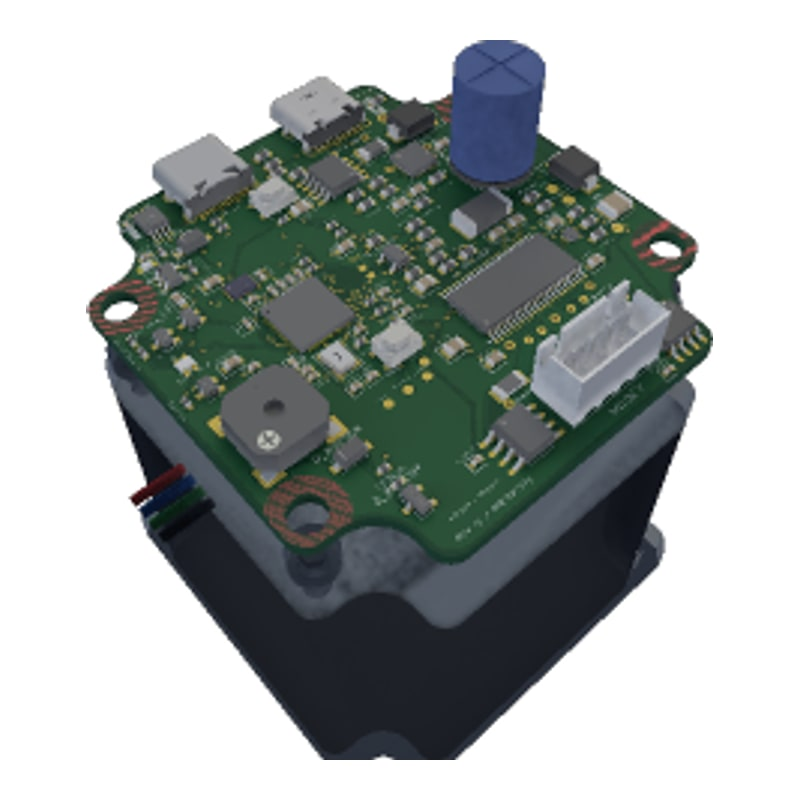
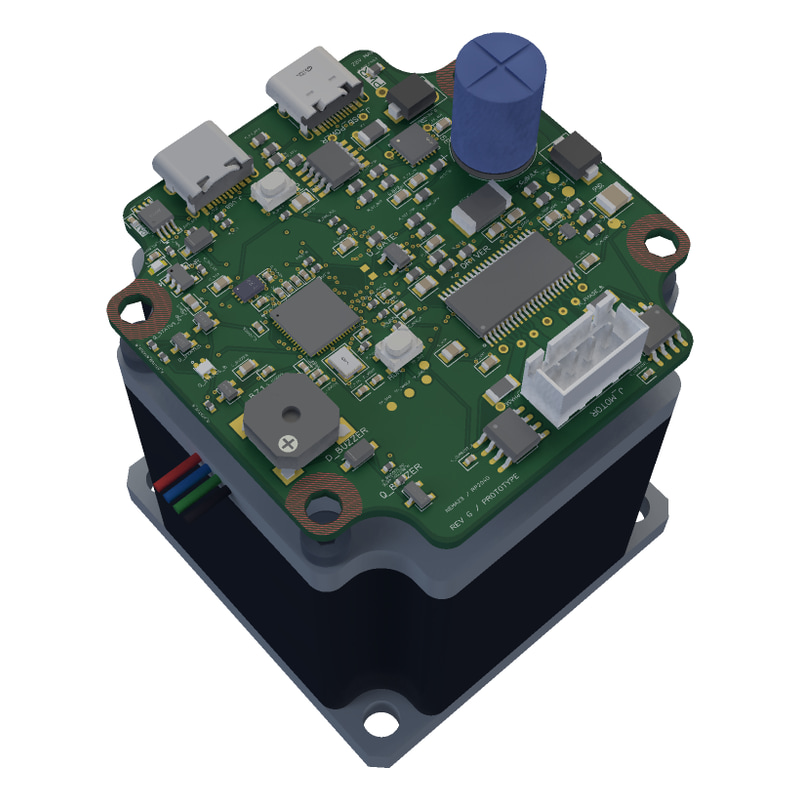
docs: add real board views and supersampled 3D renders

Changed region(s): [[0.0938, 0.0312, 0.9062, 0.9688]]

diff --git a/docs/showcase/README.md b/docs/showcase/README.md
@@ -1,0 +1,24 @@
+# README showcase assets
+
+These images come from the linked community designs. The first gallery image is a photograph; the other two are renders of the actual Circuit JSON, not enlarged registry thumbnails.
+
+| Asset | Source |
+| --- | --- |
+| `rp2040-motor-controller.jpg` | [Original shop photo](https://shop.tscircuit.com/cdn/shop/files/CleanShot_2026-09-24_at_15.36.10_2x_184b343f-0b34-4785-ace1-3eb059e26147.png?v=1790289389), requested with `width=800&height=800&crop=center` and compressed as JPEG. |
+| `rp2040-motor-controller-pcb.png` | `imrishabh18/rp2040-motor-controller`, release `28c2eb03-3ec2-4031-98b5-90c250084efe`, `dist/index/circuit.json`. |
+| `rp2040-motor-controller-schematic.png` and `.svg` | Same release, `dist/schematic/controller_programming.svg`. |
+| `nema-23-stepper-controller.jpg` | `imrishabh18/nema-23-stepper-controller`, release `d5482839-bb97-4be0-a31b-bba015f4e33f`, `dist/index/circuit.json`. |
+| `rp2040-bldc-motor-controller.jpg` | `MustafaMulla29/rp2040-bldc-motor-controller-new`, release `899c4704-4a6b-4518-a941-a574537055a5`, `dist/system/circuit.json`. The external `connected-system.glb` assembly is excluded to show the complete PCB without cables obscuring it. |
+
+## Rendering
+
+- 3D geometry: `circuit-json-to-gltf@0.0.155`, with `boardTextureResolution: 4096`.
+- 3D rasterization: `poppygl@0.0.37`, `realistic: true`, white background, grid disabled, `width: 1200`, `height: 1200`, `supersampling: 2`. Each master is rendered at 2400 × 2400 internally, then resolved to 1200 × 1200 before trimming white margins and fitting within an 800 × 800 gallery image with 32 px padding. JPEG quality 94, 4:4:4 chroma, MozJPEG.
+- NEMA 23 camera: fit the complete exported scene bounds, direction `[0.7, 2.0, -0.8]`, vertical FOV 40°. All PCB corners and the complete motor fit inside the frame.
+- BLDC camera: board camera direction `[-0.7, 1.4, -0.8]`, FOV 40°, camera distance multiplied by 1.25 and target raised to glTF Y=5. All PCB corners and the tall capacitor fit inside the frame.
+- PCB: `circuit-to-svg@0.0.453`, top copper only, no silkscreen, ratsnest, courtyard, solder paste, fabrication notes, or group overlays. Dark background and matching drill-hole color. The underlying circuit geometry is unchanged. Render the SVG at 3200 px and downsample to a 1600 px PNG.
+- Schematic: preserve the source sheet's symbols, wiring, labels, colors, and notes; crop the unused page border/margins using `viewBox="300 210 1040 680"`. Keep the vector SVG for zooming; rasterize at 3200 px and downsample to a 1600 px PNG for the README.
+
+## Visual checks
+
+Compared the original thumbnails with fresh renders and inspected both full-resolution and 280 px gallery previews. Checked complete-board framing, motor clearance inside the image, smooth diagonal edges, connector detail, and silkscreen sharpness. Reviewed the schematic for clipped labels/symbols and readable section headings; reviewed the PCB for uncluttered routing and intact board edges. These are presentation checks, not electrical validation of the community designs.

diff --git a/README.md b/README.md
@@ -63,7 +63,7 @@ From code to hardware: explore the source, schematic, PCB layout, and 3D view of
     </td>
     <td align="center" width="33%">
       <a href="https://tscircuit.com/imrishabh18/nema-23-stepper-controller#3d">
-        <img src="./docs/showcase/nema-23-stepper-controller.jpg" width="280" alt="3D render of the NEMA 23 stepper controller PCB mounted on a motor" />
+        <img src="./docs/showcase/nema-23-stepper-controller.jpg" width="280" alt="Supersampled 3D render of the NEMA 23 stepper controller PCB and complete motor assembly" />
       </a>
       <br />
       <strong><a href="https://tscircuit.com/imrishabh18/nema-23-stepper-controller#files">NEMA 23 stepper controller</a></strong>
@@ -74,7 +74,7 @@ From code to hardware: explore the source, schematic, PCB layout, and 3D view of
     </td>
     <td align="center" width="33%">
       <a href="https://tscircuit.com/MustafaMulla29/rp2040-bldc-motor-controller-new#3d">
-        <img src="./docs/showcase/rp2040-bldc-motor-controller.jpg" width="280" alt="3D render of an RP2040 brushless motor controller with USB cables and motor connections" />
+        <img src="./docs/showcase/rp2040-bldc-motor-controller.jpg" width="280" alt="Supersampled 3D render of the RP2040 brushless motor controller PCB" />
       </a>
       <br />
       <strong><a href="https://tscircuit.com/MustafaMulla29/rp2040-bldc-motor-controller-new#files">RP2040 BLDC controller</a></strong>
@@ -87,6 +87,22 @@ From code to hardware: explore the source, schematic, PCB layout, and 3D view of
 </table>
 
 More examples: [ESP32 Wi-Fi breakout](https://tscircuit.com/seveibar/wifi-test-board-1) · [Browse community circuits](https://tscircuit.com)
+
+### Schematic and PCB layout
+
+The [RP2040 motor controller](https://tscircuit.com/imrishabh18/rp2040-motor-controller#files) also shows how a real design looks in 2D.
+
+**Schematic:** USB programming, QSPI flash, and 3.3 V power. Click the image to zoom into the vector drawing.
+
+[![RP2040 motor controller schematic showing USB-C programming, QSPI flash, and the 3.3 V supply](./docs/showcase/rp2040-motor-controller-schematic.png)](./docs/showcase/rp2040-motor-controller-schematic.svg)
+
+**PCB layout:** top copper layer, with silkscreen hidden to make the routing easier to see.
+
+<p align="center">
+  <a href="https://tscircuit.com/imrishabh18/rp2040-motor-controller#pcb">
+    <img src="./docs/showcase/rp2040-motor-controller-pcb.png" width="600" alt="RP2040 motor controller top copper layout, showing routed traces, copper pours, pads, vias, and mounting holes" />
+  </a>
+</p>
 
 1. [What is tscircuit?](#what-is-tscircuit)
 2. [Examples](#example-circuits)
@@ -142,7 +158,7 @@ tsci dev
 
 > Open your browser to http://localhost:3020!
 
-> ![tsci Server Preview](./docs/example_preview.png)
+Edit your circuit code and preview the schematic, PCB layout, and 3D model as you work.
 
 ## More Features!
 
